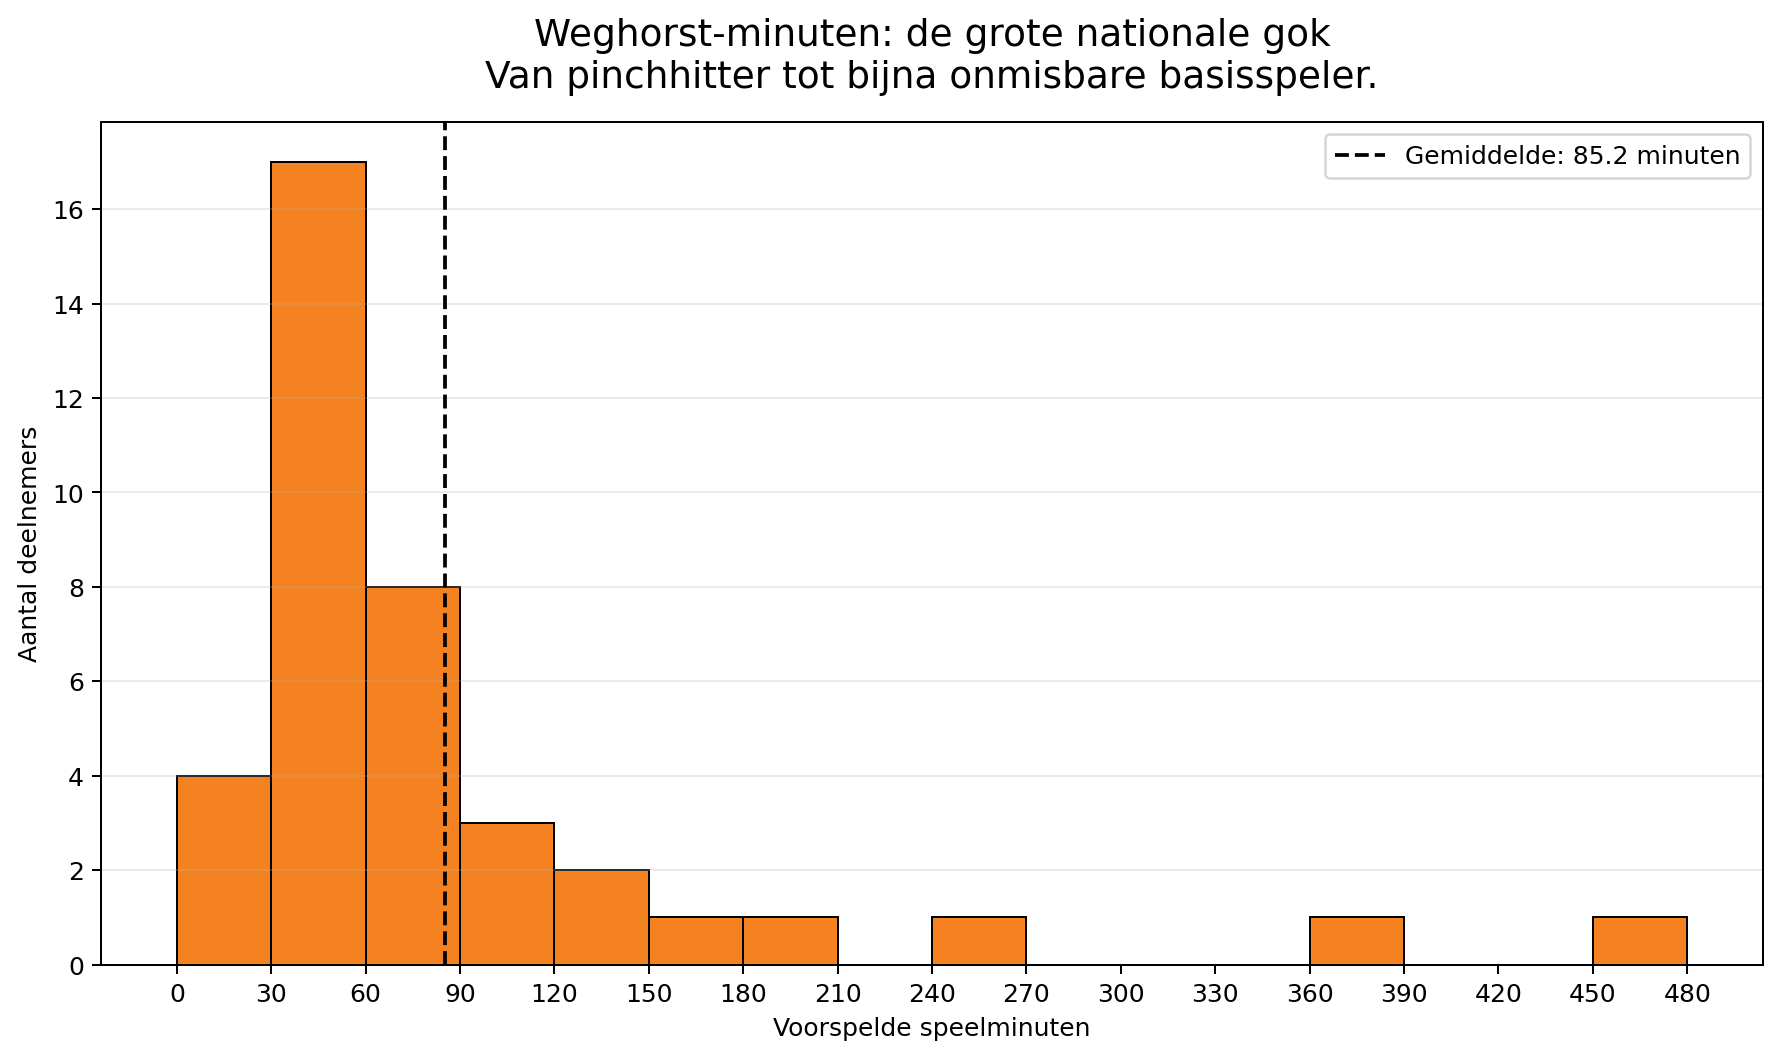
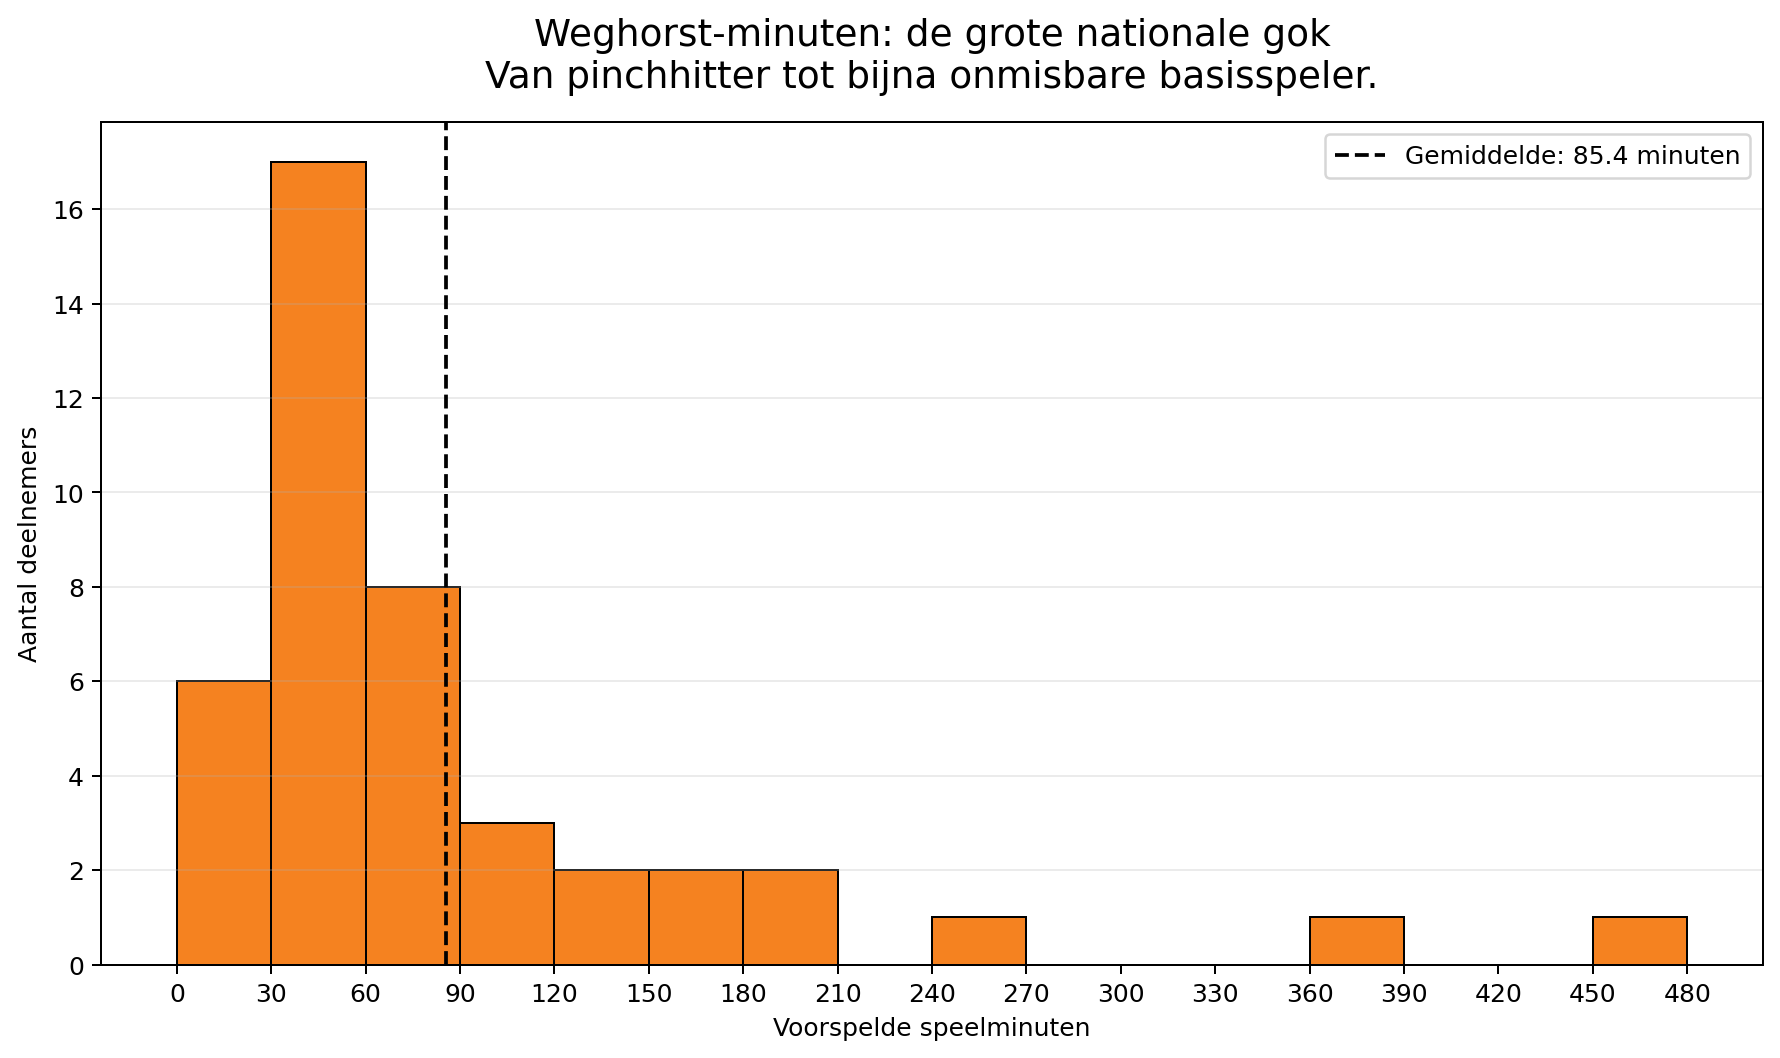
Weghorst!!

Changed region(s): [[0.3399, 0.811, 0.4944, 0.8733], [0.0927, 0.6238, 0.1545, 0.7486]]

diff --git a/importeer_formulieren.py b/importeer_formulieren.py
@@ -199,23 +199,63 @@ def extract_all_teams_from_text(value: str) -> tuple[list[str], list[str]]:
 
 
 
-def validate_prediction(name: str, positions: dict[str, int]) -> None:
+def validate_prediction(
+    name: str,
+    positions: dict[str, int],
+    path: Path,
+    log_entries: list[LogEntry],
+) -> None:
+    """Controleer de poulevoorspelling zonder dubbele posities fataal te maken.
+
+    Ontbrekende landen blijven fataal, omdat de CSV anders onvolledig wordt.
+    Dubbele posities of een ontbrekende positie binnen een poule worden alleen
+    als waarschuwing gelogd; het formulier wordt wel geïmporteerd.
+    """
     missing = [team for team in TEAM_BY_COLUMN.values() if team not in positions]
     if missing:
         raise ValueError(
             f"{len(missing)} landen ontbreken: {', '.join(missing[:5])}"
         )
 
-    for pool, teams in POOLS.items():
-        values = [positions[team] for team in teams]
-        if sorted(values) != [1, 2, 3, 4]:
-            raise ValueError(
-                f"Poule {pool} bevat geen geldige unieke posities "
-                f"1,2,3,4: {values}"
-            )
-
     if not name.strip():
         raise ValueError("naam ontbreekt")
+
+    for pool, teams in POOLS.items():
+        values = [positions[team] for team in teams]
+
+        # Waarden buiten 1 t/m 4 blijven ongeldig.
+        invalid_values = [value for value in values if value not in {1, 2, 3, 4}]
+        if invalid_values:
+            raise ValueError(
+                f"Poule {pool} bevat ongeldige posities: {values}"
+            )
+
+        if sorted(values) != [1, 2, 3, 4]:
+            duplicates = sorted({
+                value for value in values
+                if values.count(value) > 1
+            })
+            missing_positions = sorted(set([1, 2, 3, 4]) - set(values))
+
+            details: list[str] = []
+            if duplicates:
+                details.append(
+                    "dubbel: " + ", ".join(map(str, duplicates))
+                )
+            if missing_positions:
+                details.append(
+                    "ontbreekt: " + ", ".join(map(str, missing_positions))
+                )
+
+            log_entries.append(LogEntry(
+                "WAARSCHUWING",
+                path.name,
+                name,
+                f"poule {pool}",
+                "Poule bevat geen unieke verdeling 1, 2, 3 en 4; "
+                "formulier is toch geïmporteerd.",
+                f"{values}" + (f" ({'; '.join(details)})" if details else ""),
+            ))
 
 
 def predicted_third_place_teams(positions: dict[str, int]) -> set[str]:
@@ -776,7 +816,7 @@ def parse_docx(
 
     name = extract_name_docx(document)
     positions = extract_positions_docx(document)
-    validate_prediction(name, positions)
+    validate_prediction(name, positions, path, log_entries)
 
     worst_thirds = extract_worst_thirds_docx(
         document=document,
@@ -796,7 +836,7 @@ def parse_pdf(
     text = extract_pdf_text(path)
     name = extract_name_pdf(text)
     positions = extract_positions_pdf(text)
-    validate_prediction(name, positions)
+    validate_prediction(name, positions, path, log_entries)
 
     worst_thirds = extract_worst_thirds_pdf(
         text=text,

diff --git a/weghorstscatter.py b/weghorstscatter.py
@@ -163,9 +163,7 @@ def maak_scatterplot(
     )
 
     ax.set_title(
-        "Hoeveel minuten krijgt Wout Weghorst?\n"
-        "De één ziet een pinchhitter, "
-        "de ander een volledige Netflix-serie.",
+        "Hoeveel minuten krijgt Wout Weghorst?\n",
         fontsize=15,
         pad=14,
     )